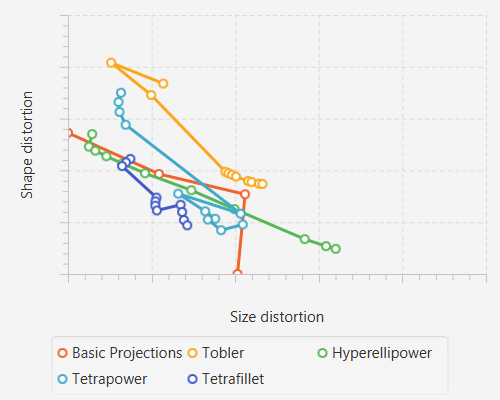
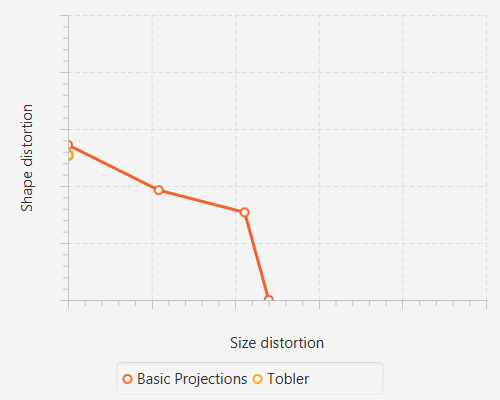
An amalgamation beyond what Tobler ever intended
I just added a standard parallel slider to Tobler. I think it's much
better this way. It'll give the optimizer more room to play. I think
this is a good thing.

diff --git a/src/apps/MapOptimizer.java b/src/apps/MapOptimizer.java
@@ -47,7 +47,7 @@ import maps.Projection;
 public class MapOptimizer extends Application {
 
 	private static final Projection[] EXISTING_PROJECTIONS = { Projection.HOBO_DYER, Projection.ROBINSON,
-			Projection.PLATE_CARREE, Projection.LEE };
+			Projection.PLATE_CARREE, Projection.PEIRCE_QUINCUNCIAL };
 	private static final double[] WEIGHTS = { .083, .20, .33, .50, .71, 1.0, 1.4, 2.0, 3.0, 5.0, 12. };
 	private static final int NUM_DESCENT = 40;
 	private LineChart<Number, Number> chart;
@@ -68,15 +68,15 @@ public class MapOptimizer extends Application {
 				new NumberAxis("Shape distortion", 0, 1, 0.2));
 		chart.setCreateSymbols(true);
 		chart.setAxisSortingPolicy(SortingPolicy.NONE);
-		double[][][] globe = Projection.globe(0.02);
+		double[][][] globe = Projection.globe(0.01);
 		PrintStream log = new PrintStream(new File("output/parameters.txt"));
 		
 		chart.getData().add(analyzeAll(globe, EXISTING_PROJECTIONS));
 //		chart.getData().add(optimizeFamily(Projection.WINKEL_TRIPEL, globe, log));
 		chart.getData().add(optimizeFamily(Projection.TOBLER, globe, log));
-		chart.getData().add(optimizeFamily(Projection.HYPERELLIPOWER, globe, log));
-		chart.getData().add(optimizeFamily(Projection.TETRAPOWER, globe, log));
-		chart.getData().add(optimizeFamily(Projection.TETRAFILLET, globe, log));
+//		chart.getData().add(optimizeFamily(Projection.HYPERELLIPOWER, globe, log));
+//		chart.getData().add(optimizeFamily(Projection.TETRAPOWER, globe, log));
+//		chart.getData().add(optimizeFamily(Projection.TETRAFILLET, globe, log));
 		
 		System.out.println("Total time elapsed: "+
 				(System.currentTimeMillis()-startTime)/1000.+"s");
@@ -119,11 +119,10 @@ public class MapOptimizer extends Application {
 		for (int i = 0; i < params.length; i ++) 	params[i] = bounds[i][0]; //initialize params
 		
 		while (true) { //start with brute force
-			System.out.println(Arrays.toString(params));
 			double[] distortions = proj.avgDistortion(points, params);
+			System.out.println(Arrays.toString(params)+": "+Arrays.toString(distortions));
 			for (int k = 0; k < WEIGHTS.length; k ++) {
-				final double avgDist = Math.pow(distortions[0],1.5) +
-						WEIGHTS[k]*Math.pow(distortions[1],1.5);
+				final double avgDist = weighDistortion(WEIGHTS[k], distortions);
 				if (avgDist < currentBest[k][0]) {
 					currentBest[k][0] = avgDist;
 					currentBest[k][1] = distortions[0];
@@ -134,10 +133,11 @@ public class MapOptimizer extends Application {
 			
 			int i;
 			for (i = 0; i < params.length; i ++) { //iterate the parameters
-				if (params[i] < bounds[i][1]+1e-5) {
+				final double step = (bounds[i][1]-bounds[i][0])/Math.floor(Math.pow(16, 1./params.length));
+				if (params[i]+step < bounds[i][1]+1e-5) {
 					for (int j = 0; j < i; j ++)
 						params[j] = bounds[j][0];
-					params[i] += (bounds[i][1]-bounds[i][0])/Math.floor(Math.pow(16, 1./params.length));
+					params[i] += step;
 					break;
 				}
 			}

diff --git a/src/maps/Tobler.java b/src/maps/Tobler.java
@@ -31,26 +31,26 @@ package maps;
 public class Tobler {
 
 	public static final double lam(double x, double y, double[] params) {
-		final double a = params[0];
+		final double a = params[1];
 		return Math.PI * x / Math.abs(a + (1-a)*hyperEllipse(y, params));
 	}
 	
 	
 	public static final double X(double y, double lam, double[] params) {
-		final double a = params[0];
+		final double a = params[1];
 		return lam * Math.abs(a + (1-a)*hyperEllipse(y, params));
 	}
 	
 	
 	public static final double dZdY(double y, double[] params) {
-		final double a = params[0], e = params[2];
+		final double a = params[1], e = params[0];
 		return Math.abs((a + (1-a)*hyperEllipse(y, params))/
 				(a + (1-a)*e));
 	}
 	
 	
 	public static final double hyperEllipse(double y, double[] params) {
-		final double k = params[1];
+		final double k = params[2];
 		return Math.pow(1 - Math.pow(Math.abs(y),k), 1/k);
 	}
 

diff --git a/src/apps/MapDesignerRaster.java b/src/apps/MapDesignerRaster.java
@@ -126,8 +126,10 @@ public class MapDesignerRaster extends MapApplication {
 		this.display.setFitWidth(IMG_WIDTH);
 		this.display.setFitHeight(IMG_WIDTH);
 		this.display.setPreserveRatio(true);
+		final StackPane pane = new StackPane(display);
+		pane.setMinWidth(IMG_WIDTH);
 		
-		final HBox gui = new HBox(10, layout, this.display);
+		final HBox gui = new HBox(10, layout, pane);
 		gui.setAlignment(Pos.CENTER);
 		StackPane.setMargin(gui, new Insets(10));
 		
